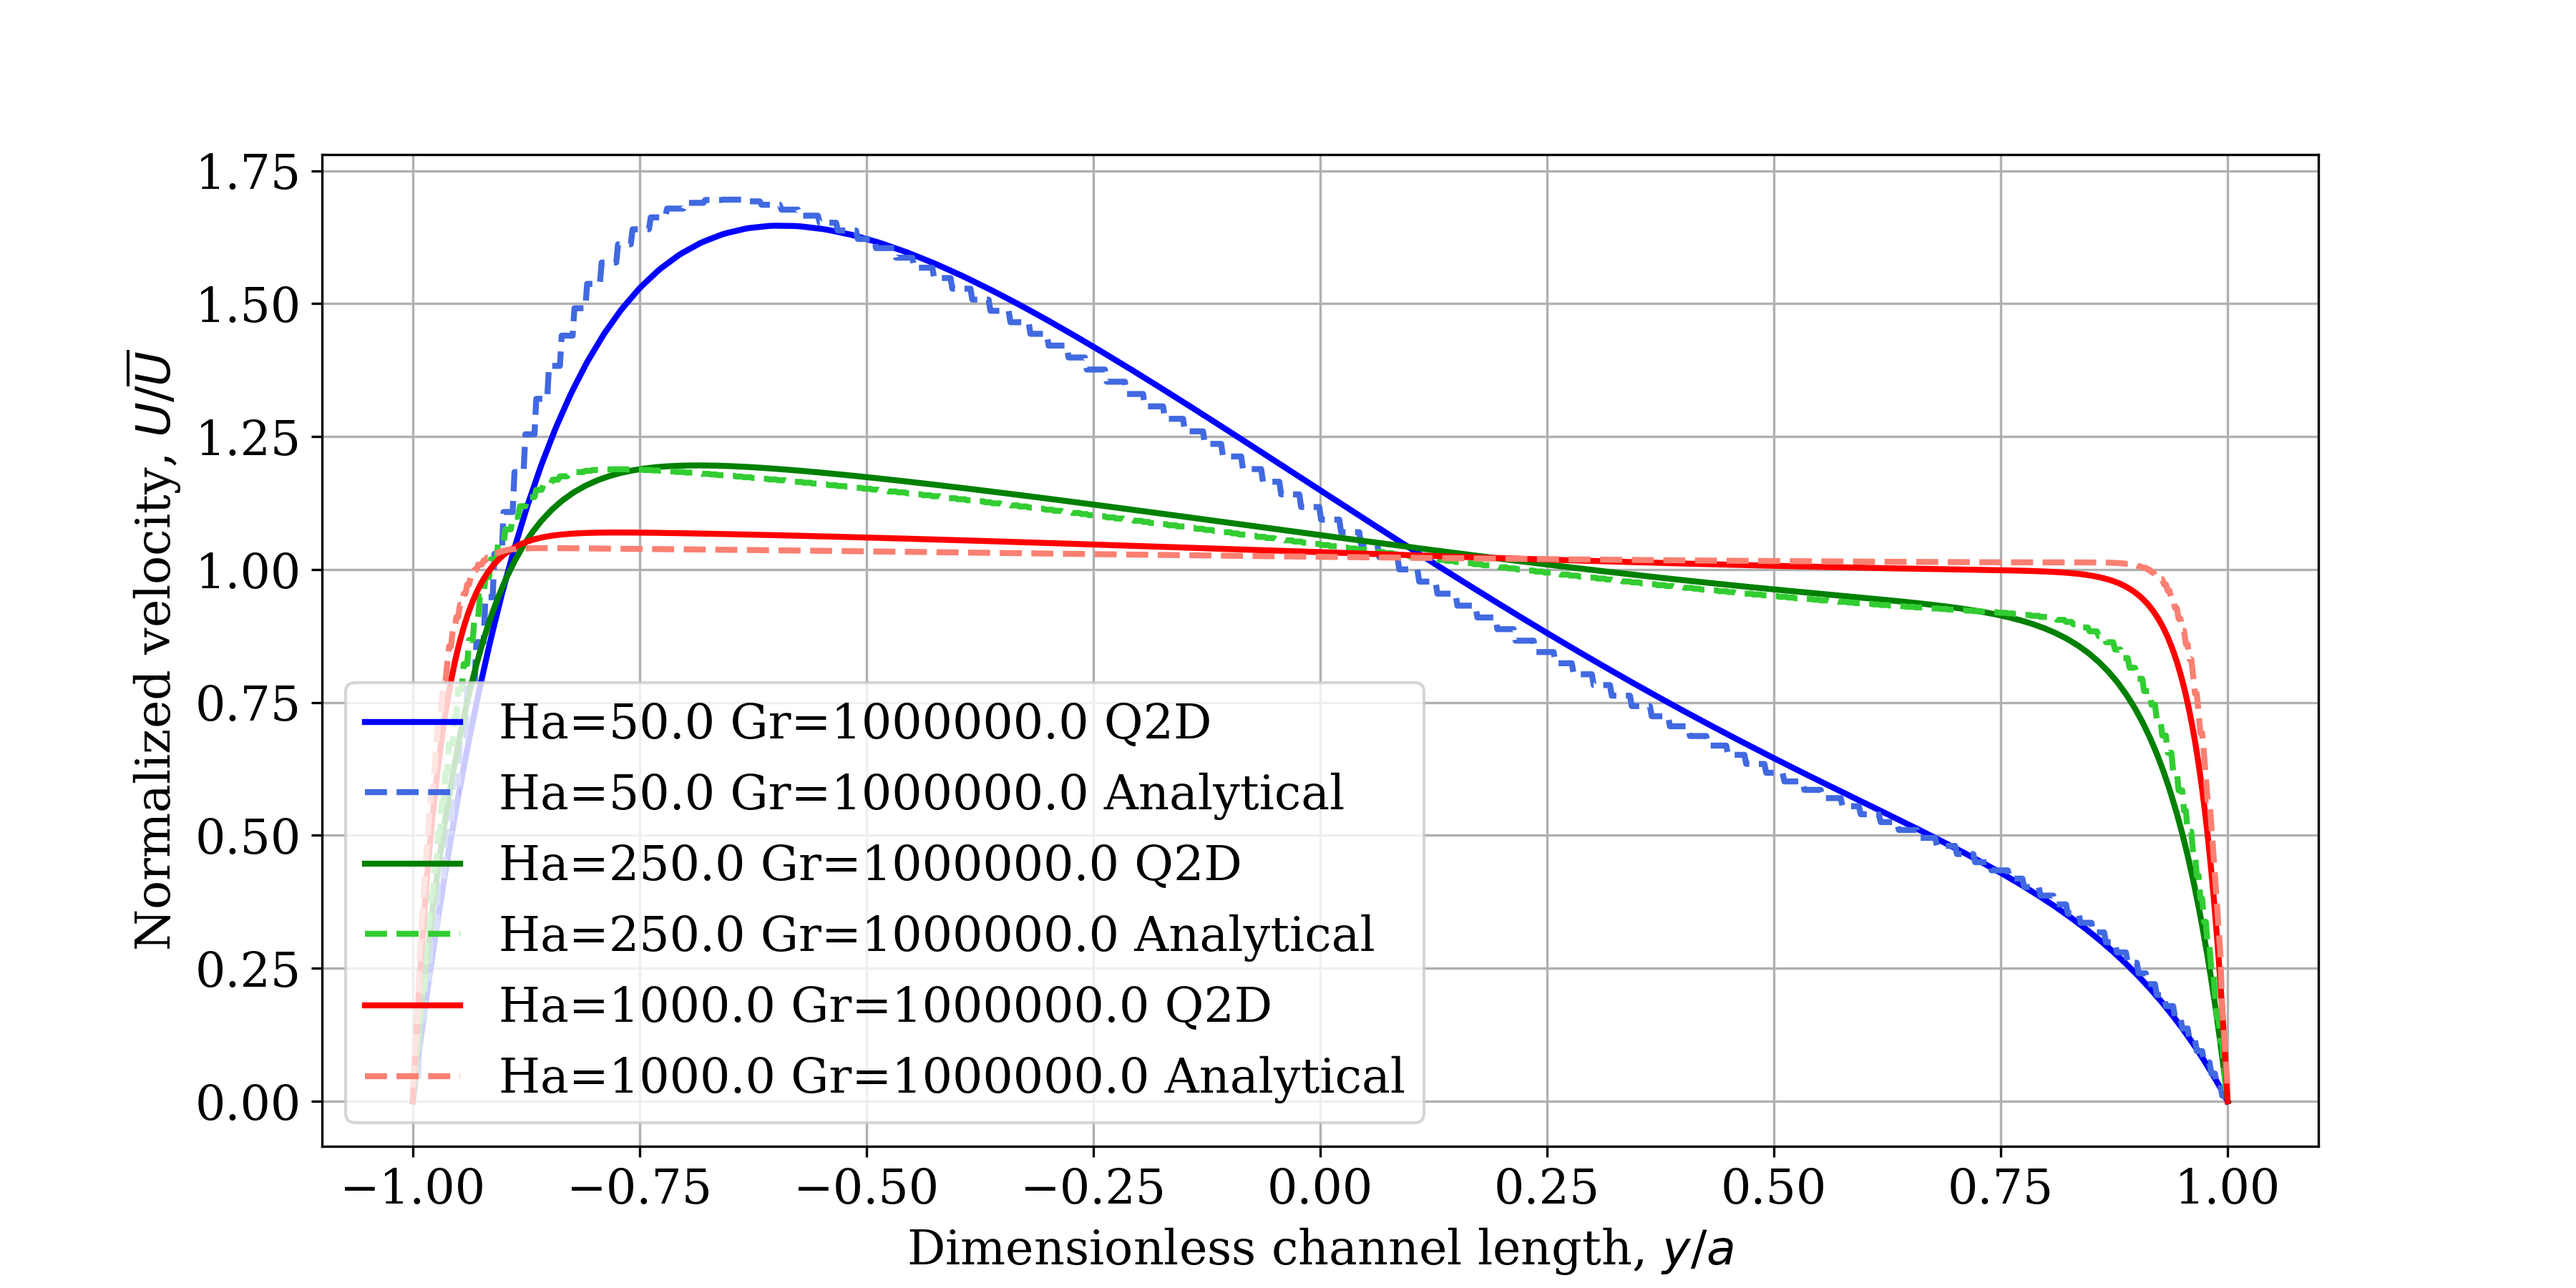
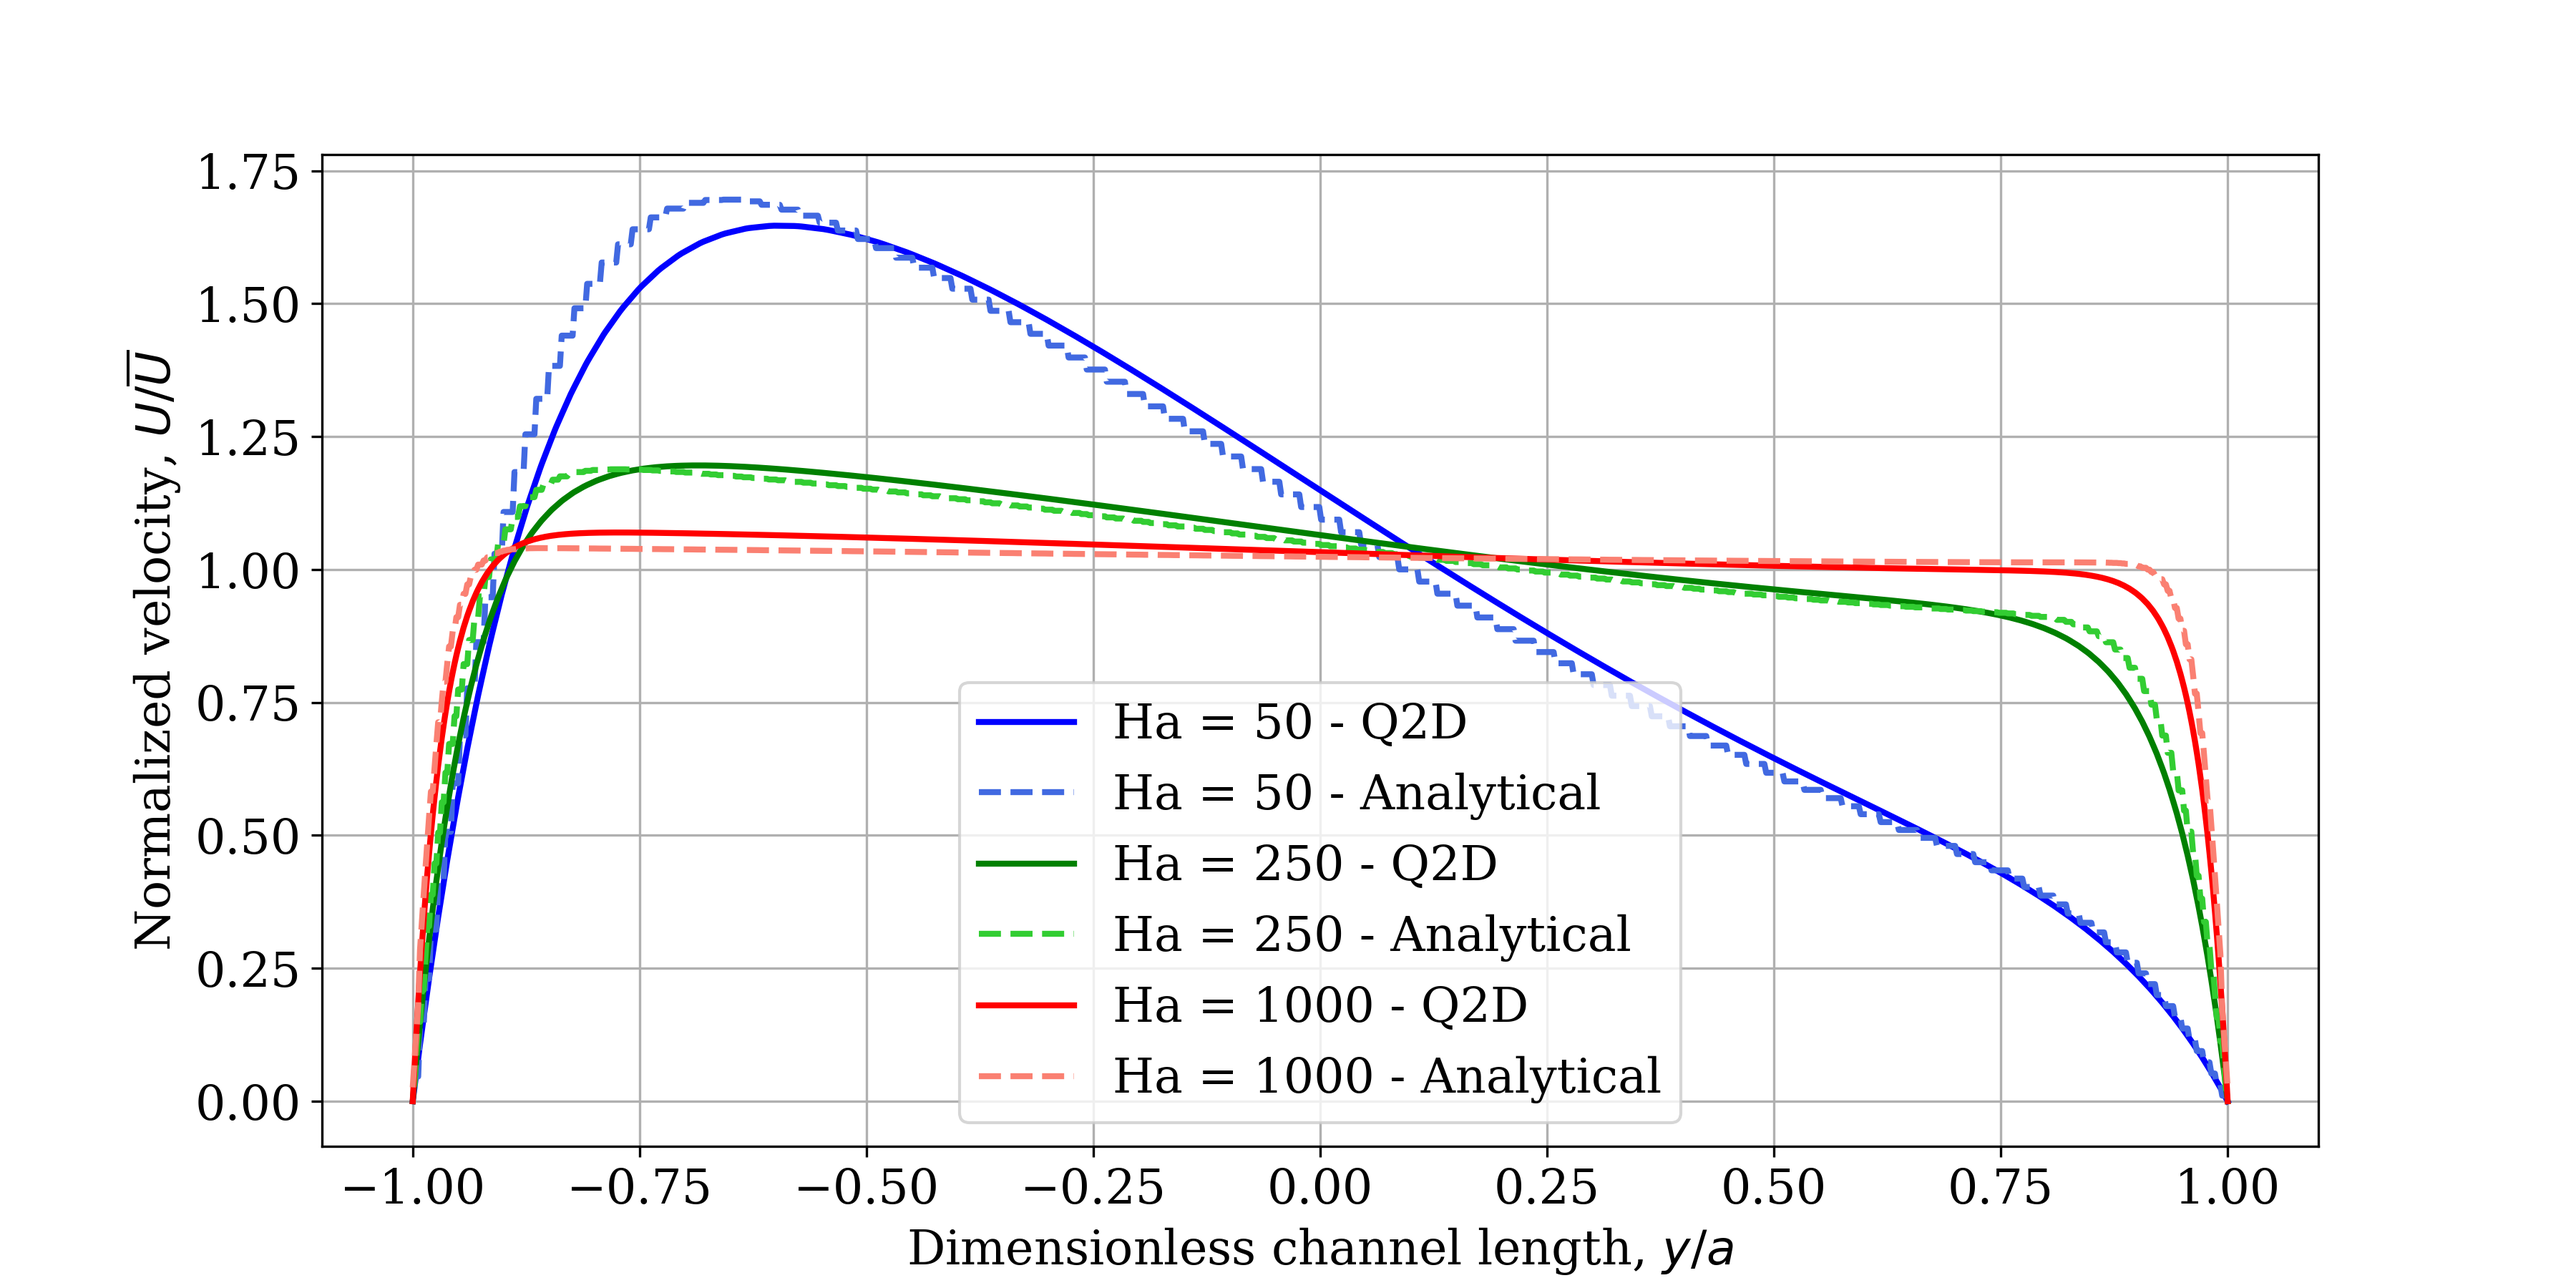
Improve legend in shercliff and tepot plots

Changed region(s): [[0.1244, 0.5289, 0.6533, 0.8711]]

diff --git a/validation/tepot/validation.py b/validation/tepot/validation.py
@@ -86,8 +86,8 @@ for file in os.listdir(validation_dir):
     filename = postprocess_dir + latest_time + '/' + postprocess_file
     z, U, _, _ = np.loadtxt(filename, unpack= True)
     z_val, _, U_val = np.loadtxt(validation_dir + '/' + file, unpack= True)
-    label_q2d = 'Ha=' + str(Ha) + ' Gr='+str(Gr) + ' Q2D'
-    label_val = 'Ha=' + str(Ha) + ' Gr='+str(Gr) + ' Analytical'
+    label_q2d = f'Ha = {Ha:.0f} - Q2D'
+    label_val = f'Ha = {Ha:.0f} - Analytical'
 
     # Plot unscaled data
     ax.plot(z, U, linestyle='-', color=color_q2d[i], label=label_q2d)

diff --git a/validation/shercliff/validation.py b/validation/shercliff/validation.py
@@ -167,8 +167,8 @@ for Ha in Ha_list:
 
     # General big plotting
     # Prepare labels
-    label_q2d = 'Ha=' + str(Ha) + ' Gr='+str(Gr) + ' Q2D'
-    label_val = 'Ha=' + str(Ha) + ' Gr='+str(Gr) + ' Analytical'
+    label_q2d = f'Ha = {Ha:.0f} - Q2D'
+    label_val = f'Ha = {Ha:.0f} - Analytical'
     # Plot unscaled data
     ax.plot(z, U, linestyle='-', color=color_q2d[i], label=label_q2d)
     ax.plot(z_val, U_val, linestyle='--', color=color_val[i], label=label_val)
